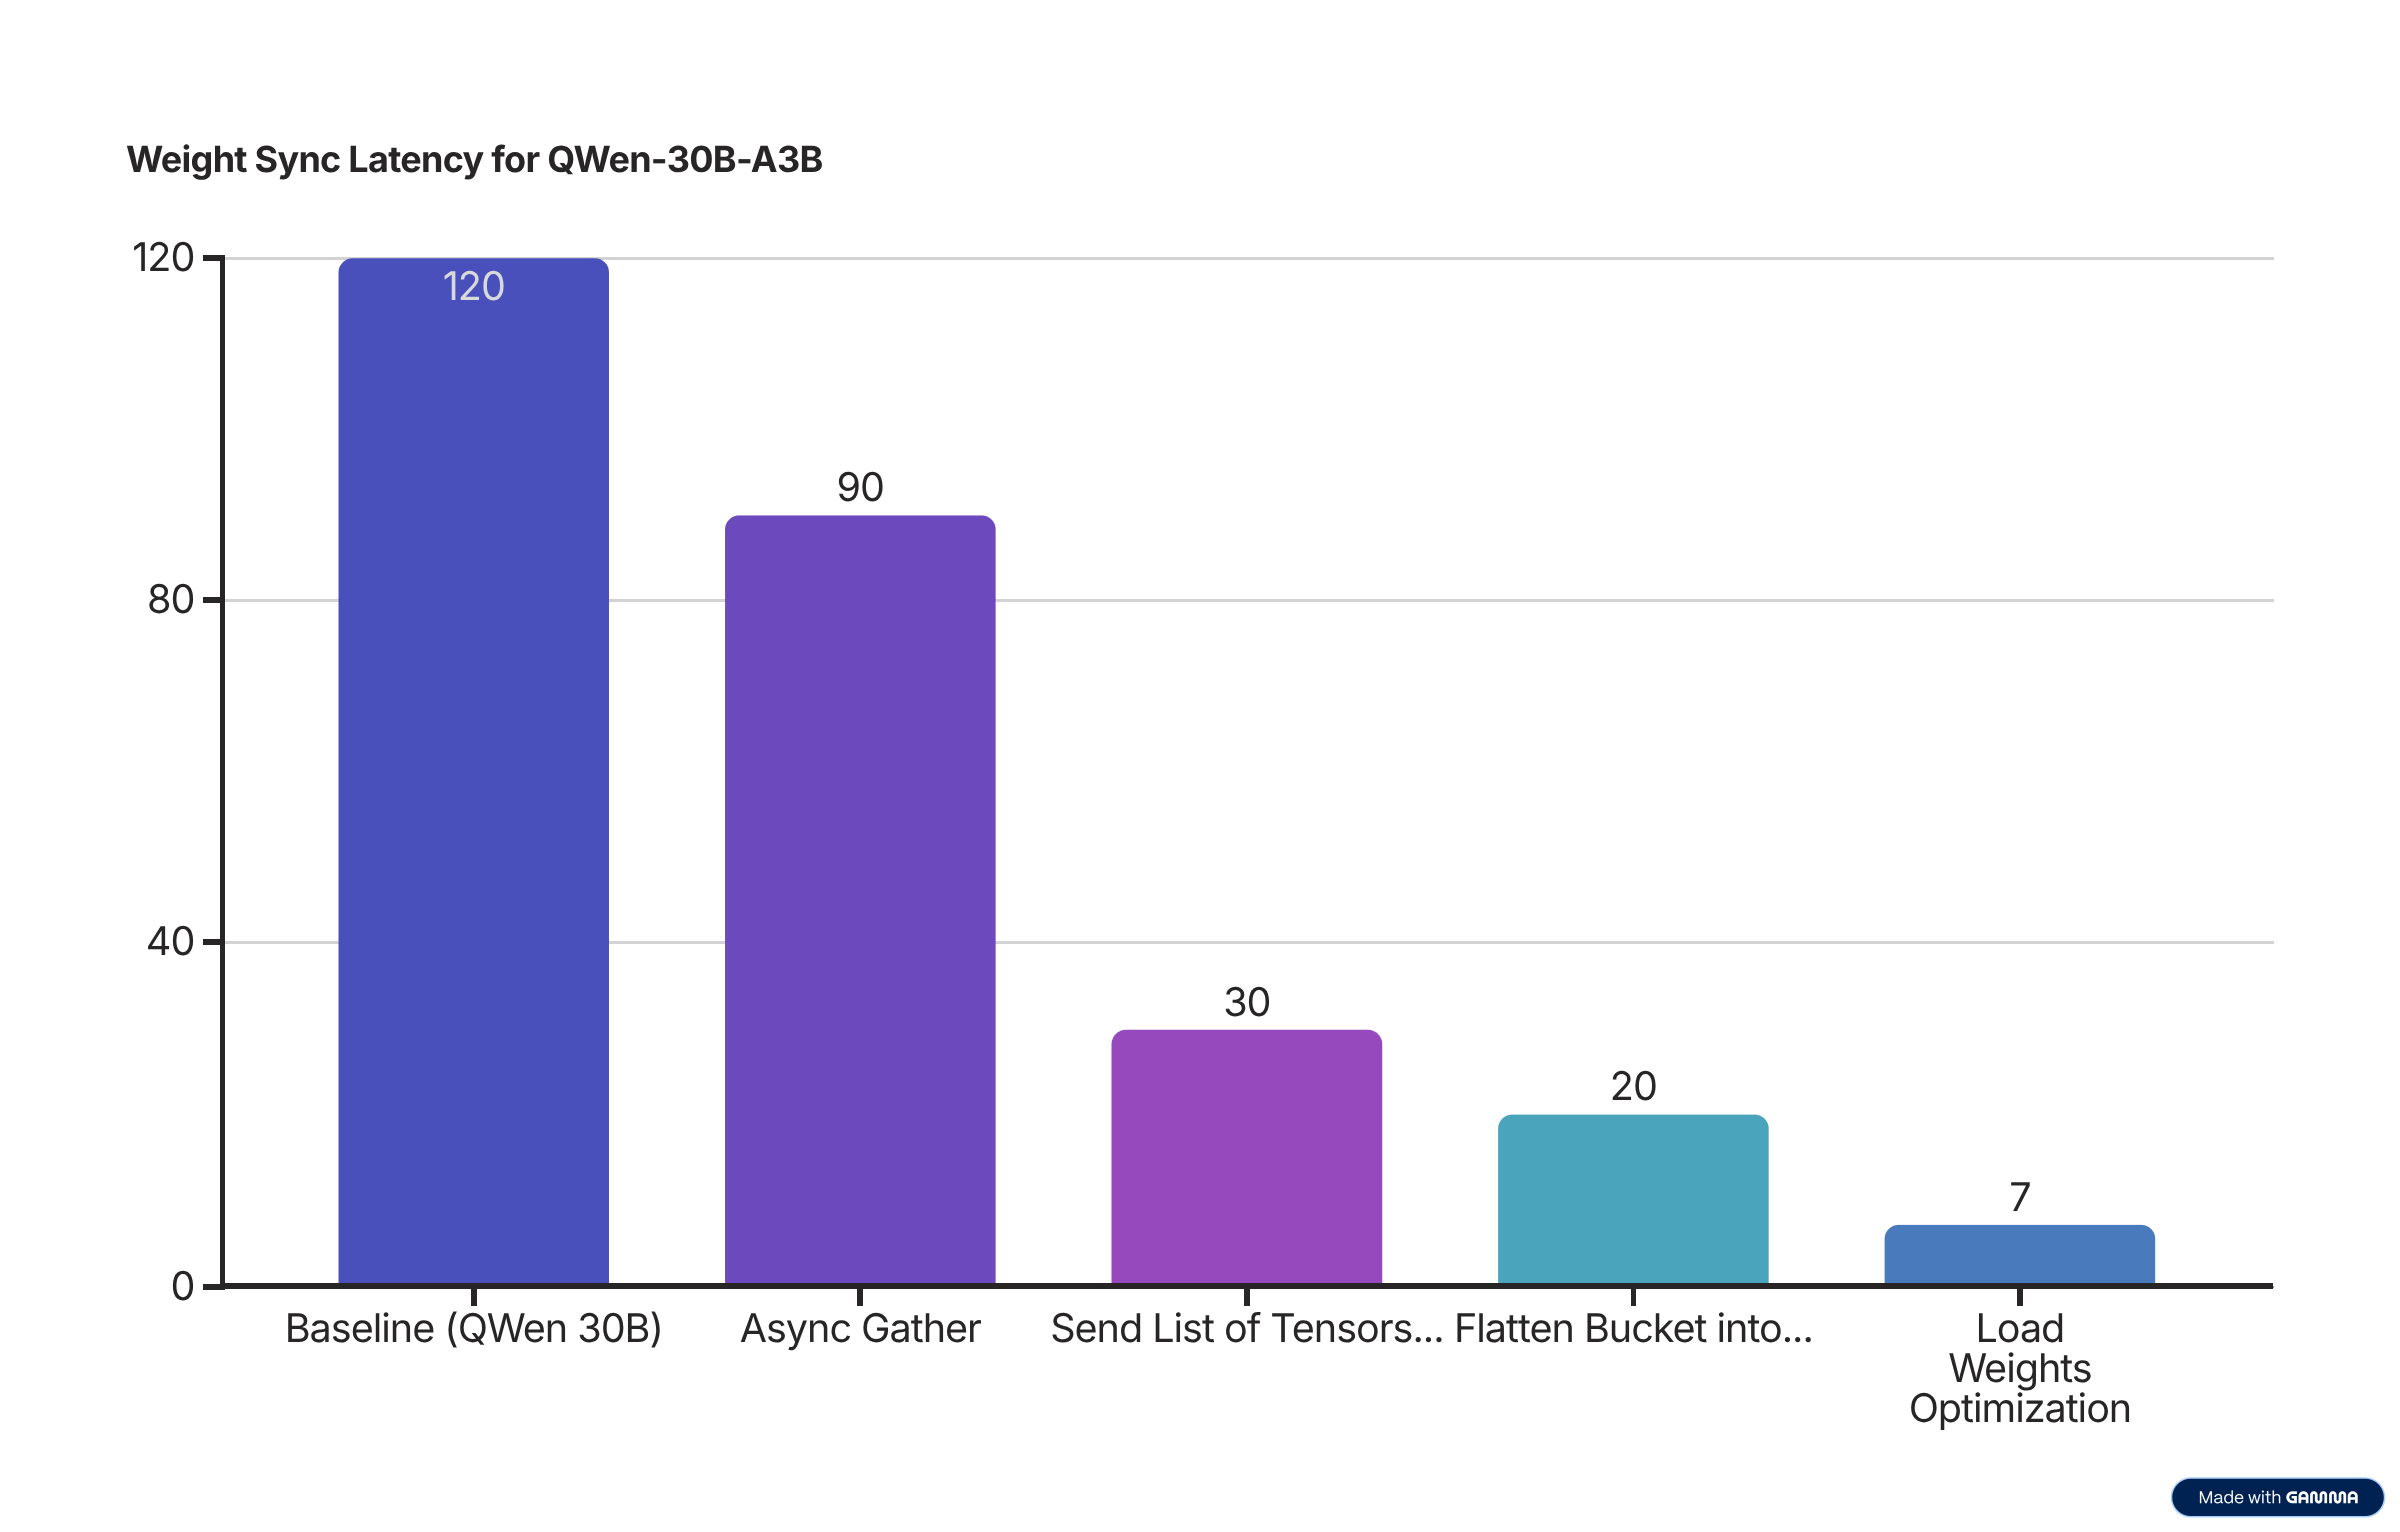
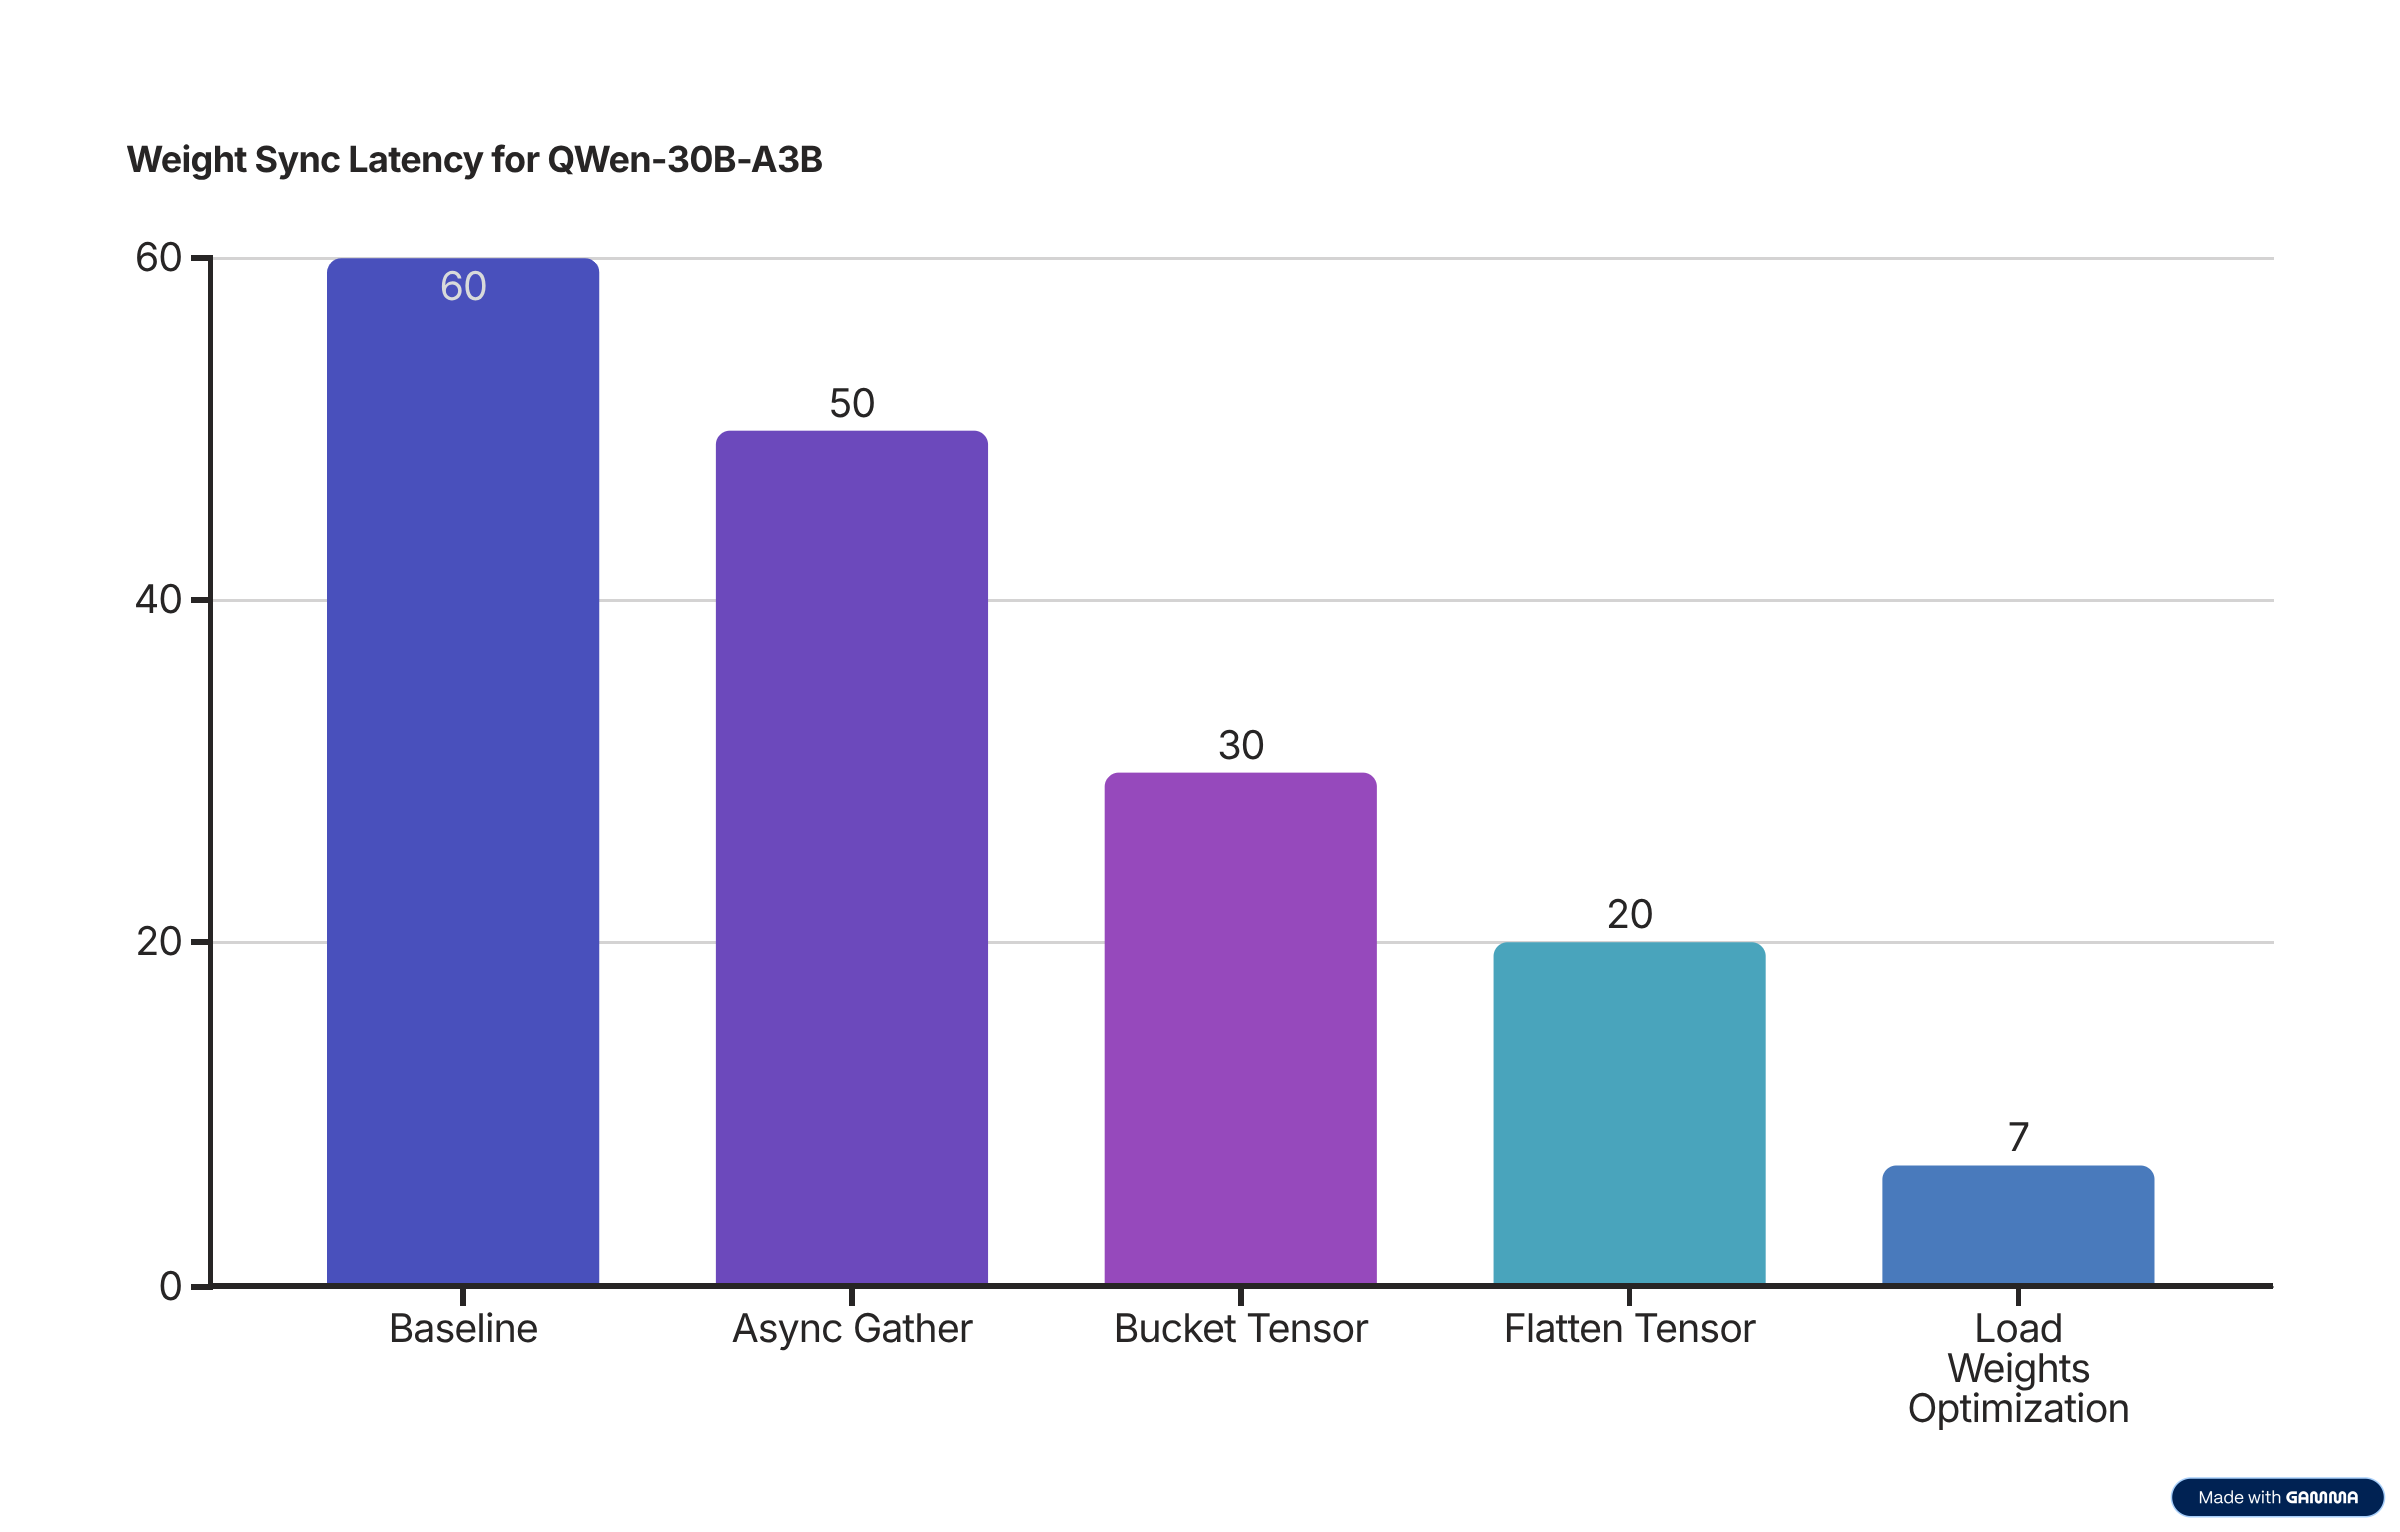
fix

diff --git a/_posts/2025-08-27-rl-weight-sync.md b/_posts/2025-08-27-rl-weight-sync.md
@@ -111,13 +111,22 @@ The weight sync process involves sophisticated cross-process GPU memory sharing.
 <div class="divider"></div>
 
 
+### Why Server-Based Architecture?
+We chose SGLang's server-based approach over direct engine integration for several key reasons:
 
-## 4. Our optimization journey: From 120s to 7s
+1. **Decoupling**: Clean separation between training and inference processes, hence we can maximize the performance of both sides.
+2. **Scalability**: Native compatible with SGLang Router, which can do Router-based load balancing across multiple inference nodes to maximize the utilization of KV Cache.
+3. **Reliability**: Easier error handling and recovery vs tight process coupling.
+
+
+## 4. Our optimization journey: From 60s to 7s
 
 ![Our optimization journey](/assets/slime/weight_sync/our_optimization_journey.png)
 
 
 Through this optimization journey, we've adopted many techniques that we'll discuss in detail below. And we will be using QWen3-30B-A3B model as an example for the following blog.
+
+> Note: The latency number was simulated according to the series of PRs to make it easier to understand the logic, in reality, we didn't follow the order of improvement like the graph shown above.
 
 <div class="divider"></div>
 
@@ -141,7 +150,7 @@ When transferring large model weights between processes, we face a fundamental c
 2. **Minimal Memory Overhead**: Only ~64 bytes for the IPC handle vs GBs for serialized data
 3. **GPU-to-GPU Direct**: Avoids CPU-GPU memory copies entirely
 
-This forms our baseline implementation, achieving significant improvements over traditional serialization approaches, however, it still took us 120s to sync the weight.
+This forms our baseline implementation, achieving significant improvements over traditional serialization approaches, however, it still took us 60s to sync the weight.
 
 
 
@@ -149,7 +158,7 @@ This forms our baseline implementation, achieving significant improvements over 
 
 
 
-### 4.1 Optimizing the tensor gathering process: *From 120s to 90s*
+### 4.1 Optimizing the tensor gathering process: *From 60s to 50s*
 
 The first major bottleneck was in gathering tensors scattered across different distributed parallelism paradigms (Pipeline Parallel/Tensor Parallel/Expert Parallel).
 
@@ -185,9 +194,9 @@ for handle in handles:
 ```
 
 #### Performance Impact:
-- **Before**: Sequential gathering → 120s
-- **After**: Parallel async gathering → 90s  
-- **Improvement**: 25% reduction in sync time
+- **Before**: Sequential gathering → 60s
+- **After**: Parallel async gathering → 50s  
+- **Improvement**: 17% reduction in sync time
 - **Key insight**: Maximize network bandwidth utilization by parallelizing communications
 
 Code Reference: [slime/backends/megatron_utils/update_weight_utils.py](https://github.com/THUDM/slime/blob/main/slime/backends/megatron_utils/update_weight_utils.py#L59-L123)
@@ -200,7 +209,7 @@ Related PRs: [https://github.com/THUDM/slime/pull/135](https://github.com/THUDM/
 
 
 
-### 4.2 Optimizing SGLang Server Calls with Tensor Bucketing: *From 90s to 30s*
+### 4.2 Optimizing SGLang Server Calls with Tensor Bucketing: *From 50s to 30s*
 
 The next bottleneck was in the number of API calls to SGLang servers. Making individual HTTP requests for each tensor was causing significant overhead.
 
@@ -246,9 +255,9 @@ for bucket in tensor_buckets:
 ```
 
 #### Performance Impact:
-- **Before**: ~2000 individual API calls → 90s
+- **Before**: ~2000 individual API calls → 50s
 - **After**: ~120 bucketed calls → 30s
-- **Improvement**: 67% reduction by minimizing HTTP overhead
+- **Improvement**: 40% reduction by minimizing HTTP overhead
 
 [Code Reference](https://github.com/THUDM/slime/blob/b738d3338aebcdc2875519d3ddeff4991010adf5/slime/backends/megatron_utils/update_weight_utils.py#L277-L293)
 
@@ -257,8 +266,7 @@ for bucket in tensor_buckets:
 
 
 
-
-### 4.3 Tensor Flattening: Reducing CUDA IPC Overhead: *From 30s to 7s*
+### 4.3 Tensor Flattening: Reducing CUDA IPC Overhead: *From 30s to 20s*
 
 Even with tensor bucketing, we still faced a significant bottleneck: **CUDA IPC handle management overhead**. Each tensor required its own IPC handle creation and cleanup, leading to hundreds of expensive operations.
 
@@ -290,7 +298,7 @@ The flame graph above reveals the true bottleneck in our weight synchronization 
 | **Rebuild** | 5ms | 25% | New phase for tensor reconstruction |
 | **Load Weights** | 12ms | 60% | Small Variance |
 | **IPC Handler Close** | 200μs | 1% | 98% faster |
-| **Total** | **20ms** | **100%** | **51% total improvement** |
+| **Total** | **20ms** | **100%** | **33% total improvement** |
 
 **Key Achievement**: By flattening tensors, we reduced IPC operations from **81%** to **16%** of total time, while weight loading became the dominant phase at **60%** - exactly what we want!
 
@@ -305,48 +313,69 @@ Related PRs:
 
 
 
-### 4.4 Load Weight Optimization
+### 4.4 Load Weight Optimization: Final Performance Gains: *From 20s to 7s*
 
-    1. Add PRs
+After optimizing the IPC overhead, we identified additional bottlenecks in the weight loading process itself, particularly for MoE models.
 
+#### Key Optimizations:
 
+**1. Parameter Dictionary Caching**
+```python
+# Before: Expensive model traversal on every weight update
+params_dict = dict(self.named_parameters())
+
+# After: Cache the parameter dictionary
+if not hasattr(self, "_cached_params_dict"):
+    self._cached_params_dict = dict(self.named_parameters())
+params_dict = self._cached_params_dict
+```
+
+**2. Expert Map GPU Migration Optimization**  
+```python
+# Avoid repeated GPU-to-CPU synchronization for expert mapping
+if self.expert_map_cpu is not None and self.expert_map_gpu is None:
+    # Move expert map to GPU once and cache it
+    self.expert_map_gpu = self.expert_map_cpu.to(device="cuda")
+```
+
+**3. CUDA Device Caching**
+```python
+# Cache CUDA device queries to avoid repeated expensive calls
+@lru_cache(maxsize=8)
+def get_device(device_id: Optional[int] = None) -> str:
+    # Cached device lookup eliminates repeated torch.cuda.is_available() calls
+```
+
+#### Performance Impact:
+- **Before**: Various weight loading bottlenecks → 20s
+- **After**: Optimized parameter caching and device handling → 7s
+- **Improvement**: 65% reduction in final weight loading time
+
+#### Key Insights:
+- Most performance optimizations in SGLang focus on the forward pass, while weight loading optimization receives less attention. This creates abundant low-hanging fruit opportunities, as demonstrated by the PRs above.
+
+Related PRs: 
+- [Remove QWen3 MOE Load Weight overhead](https://github.com/sgl-project/sglang/pull/8751)
+- [Avoid Expert Map GPU-to-CPU Device Sync](https://github.com/sgl-project/sglang/pull/8753)
+- [Cache Cuda Device](https://github.com/sgl-project/sglang/pull/8996)
 
 
 <div class="divider"></div>
 
-## 5. Key Insights and Lessons Learned
 
-### Why Server-Based Architecture?
-We chose SGLang's server-based approach over direct engine integration for several key reasons:
-
-1. **Decoupling**: Clean separation between training and inference processes
-2. **Scalability**: Router-based load balancing across multiple inference nodes  
-3. **Reliability**: Easier error handling and recovery vs tight process coupling
-
-
-## 6. Future Optimizations
+## 5. Future Optimizations
 
 Several exciting optimization opportunities remain:
 
 - **Overlap Communication**: Pipeline gathering and sending operations
 - **Async Weight Loading**: Non-blocking model weight updates  
-- **Zero-Redundancy Layout**: Pre-calculate inference engine memory layout
-- **Cross-Node CUDA IPC**: Extend beyond single-node limitations
-
-<div class="divider"></div>
-
-## 7. Acknowledgments
-
-We extend our gratitude to:
-- The **slime Team** for the innovative cross-process weight synchronization framework
-- The **SGLang Team** for the high-performance inference engine and CUDA IPC support  
-
-Special thanks to the open-source community for making these advanced ML systems accessible to researchers worldwide.
+- **Zero-Redundancy Layout**: Pre-calculate inference engine memory layout and do zero-redundancy copy
 
 <div class="divider"></div>
 
 
-## 8. References
+
+## 6. References
 
 [^1]: [LlamaRL Paper](https://arxiv.org/pdf/2505.24034)
 [^2]: [Torch Memory Saver: A PyTorch library that allows tensor memory to be temporarily released and resumed later](https://github.com/fzyzcjy/torch_memory_saver)
